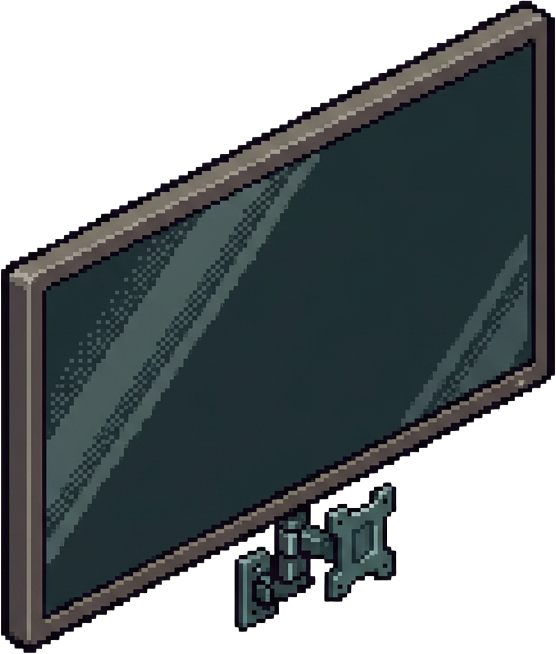
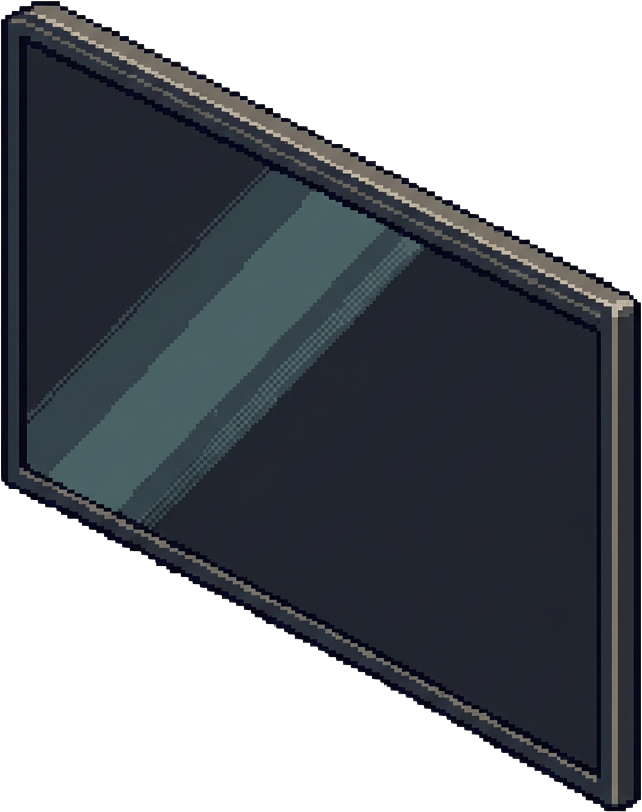
TV: bare flat panel, VESA mount removed (Restu)

diff --git a/tools/gen_classroom.py b/tools/gen_classroom.py
@@ -143,10 +143,10 @@ PROMPTS = {
     ),
     "tv": (
         "Using the attached classroom image ONLY as reference for size, isometric angle and "
-        "pixel-art style. Draw ONLY a modern flat-screen TV on a small wall mount bracket, "
-        "seen at the same isometric tilt as the reference blackboard (it will hang above the "
-        "blackboard). Isolated on a plain pure white background. No wall, no room, nothing "
-        "else. " + STYLE
+        "pixel-art style. Draw ONLY a modern flat-screen TV as a bare flat panel with a slim "
+        "bezel: NO wall mount, NO VESA bracket, NO arm, NO stand, nothing behind it and "
+        "nothing below it, seen at the same isometric tilt as the reference blackboard. "
+        "Isolated on a plain pure white background. No wall, no room, nothing else. " + STYLE
     ),
     "poster-english": (
         "Using the attached classroom image ONLY as reference for size, isometric angle and "
